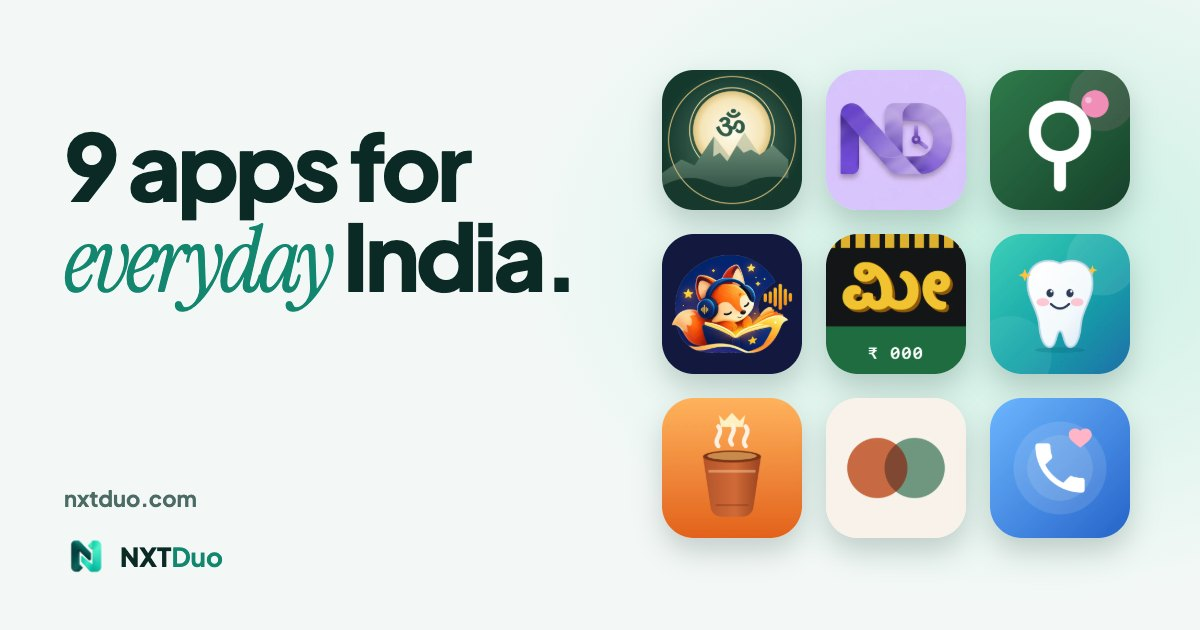
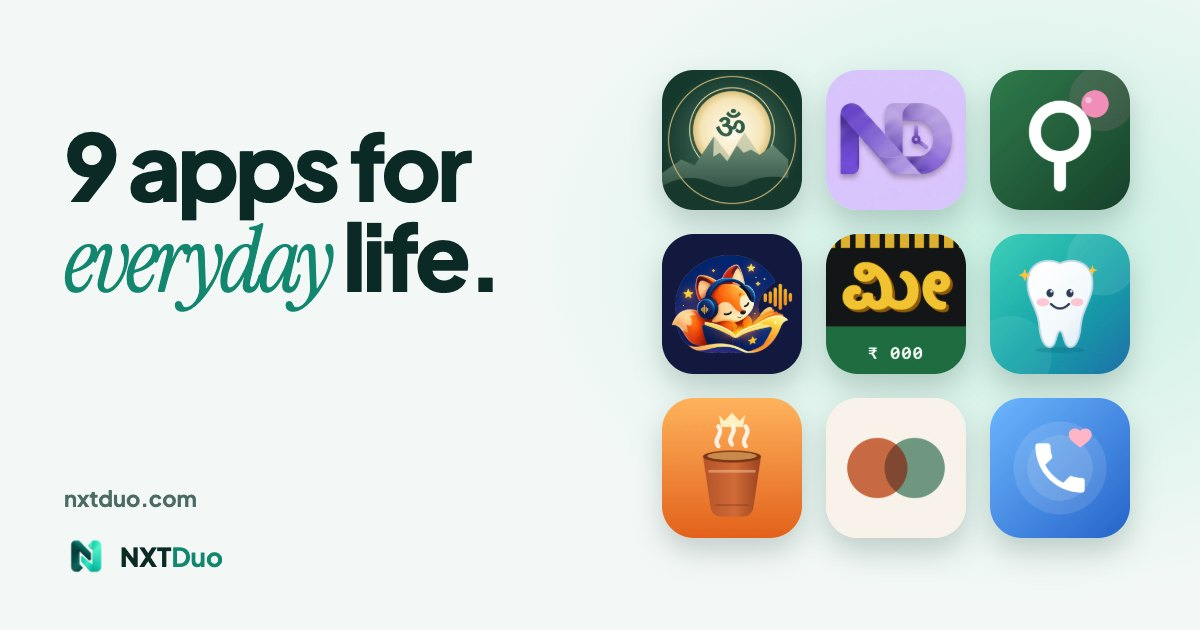
Speak to families worldwide and give the N mark a raised tile

Changed region(s): [[0.2775, 0.3317, 0.4933, 0.4825]]

diff --git a/index.html b/index.html
@@ -3,8 +3,8 @@
 <head>
   <meta charset="utf-8" />
   <meta name="viewport" content="width=device-width, initial-scale=1" />
-  <title>NxtDuo | Apps for everyday India, from a studio of two</title>
-  <meta name="description" content="NxtDuo is a two-person app studio from India. Our apps: Talk With Swamy, NxtDue, Publik, FableFox, Meter Mele, NxtBrush, Chai Empire, Saathi, Thodu." />
+  <title>NxtDuo | Apps for families everywhere, from a studio of two</title>
+  <meta name="description" content="NxtDuo is a two-person app studio making apps for families around the world. Our apps: Talk With Swamy, NxtDue, Publik, FableFox, Meter Mele, NxtBrush, Chai Empire, Saathi, Thodu." />
   <meta name="robots" content="index,follow" />
   <meta name="theme-color" content="#f3f8f6" />
   <link rel="canonical" href="https://nxtduo.com/" />
@@ -14,16 +14,16 @@
   <meta property="og:type" content="website" />
   <meta property="og:site_name" content="NxtDuo" />
   <meta property="og:locale" content="en_IN" />
-  <meta property="og:title" content="NxtDuo | Apps for everyday India, from a studio of two" />
-  <meta property="og:description" content="NxtDuo is a two-person app studio from India. Our apps: Talk With Swamy, NxtDue, Publik, FableFox, Meter Mele, NxtBrush, Chai Empire, Saathi, Thodu." />
+  <meta property="og:title" content="NxtDuo | Apps for families everywhere, from a studio of two" />
+  <meta property="og:description" content="NxtDuo is a two-person app studio making apps for families around the world. Our apps: Talk With Swamy, NxtDue, Publik, FableFox, Meter Mele, NxtBrush, Chai Empire, Saathi, Thodu." />
   <meta property="og:url" content="https://nxtduo.com/" />
   <meta property="og:image" content="https://nxtduo.com/assets/og/home.jpg" />
   <meta property="og:image:width" content="1200" />
   <meta property="og:image:height" content="630" />
   <meta property="og:image:alt" content="NxtDuo apps" />
   <meta name="twitter:card" content="summary_large_image" />
-  <meta name="twitter:title" content="NxtDuo | Apps for everyday India, from a studio of two" />
-  <meta name="twitter:description" content="NxtDuo is a two-person app studio from India. Our apps: Talk With Swamy, NxtDue, Publik, FableFox, Meter Mele, NxtBrush, Chai Empire, Saathi, Thodu." />
+  <meta name="twitter:title" content="NxtDuo | Apps for families everywhere, from a studio of two" />
+  <meta name="twitter:description" content="NxtDuo is a two-person app studio making apps for families around the world. Our apps: Talk With Swamy, NxtDue, Publik, FableFox, Meter Mele, NxtBrush, Chai Empire, Saathi, Thodu." />
   <meta name="twitter:image" content="https://nxtduo.com/assets/og/home.jpg" />
   <link rel="preload" href="/fonts/plus-jakarta-sans-latin-var.woff2" as="font" type="font/woff2" crossorigin />
   <link rel="stylesheet" href="/style.css" />
@@ -38,7 +38,7 @@
    "url": "https://nxtduo.com/",
    "logo": "https://nxtduo.com/assets/nxtduo-icon-512.png",
    "email": "support@nxtduo.com",
-   "description": "A two-person app studio from India.",
+   "description": "A two-person app studio making apps for families around the world.",
    "founder": [
     {
      "@type": "Person",
@@ -49,17 +49,14 @@
      "name": "Mahesh Chandu"
     }
    ],
-   "areaServed": {
-    "@type": "Country",
-    "name": "India"
-   }
+   "areaServed": "Worldwide"
   },
   {
    "@type": "WebSite",
    "@id": "https://nxtduo.com/#website",
    "name": "NxtDuo",
    "url": "https://nxtduo.com/",
-   "inLanguage": "en-IN",
+   "inLanguage": "en",
    "publisher": {
     "@id": "https://nxtduo.com/#organization"
    }
@@ -189,8 +186,8 @@
       <section class="panel p-hero" id="home" aria-labelledby="hero-title">
         <div class="hero-grid">
           <div class="hero-copy">
-            <p class="eyebrow">NxtDuo · an app studio of two · India</p>
-            <h1 class="display" id="hero-title">9 apps for <span class="serif">everyday</span> India.</h1>
+            <p class="eyebrow">NxtDuo · an app studio of two · for the world</p>
+            <h1 class="display" id="hero-title">9 apps for <span class="serif">everyday</span> life.</h1>
             <p class="lead">Spiritual chat, renewal reminders, a city guide, bedtime stories, games, a brushing coach and a private diary. Small, careful apps, made by two people who use them every day.</p>
             <div class="cta">
               <a class="btn primary" href="#talk-with-swamy" data-goto>Start with Talk With Swamy <i aria-hidden="true">→</i></a>
@@ -203,7 +200,7 @@
             <div class="phone">
               <div class="screen">
                 <div class="status" aria-hidden="true"><span>9:41</span><span class="island"></span><span class="status-icons">●●● ▮</span></div>
-                <div class="screen-date" aria-hidden="true"><b>Made in India</b><span>Our apps</span></div>
+                <div class="screen-date" aria-hidden="true"><b>Made for families</b><span>Our apps</span></div>
                 <ul class="apps-grid" aria-label="Our apps">
                   <li><a href="#talk-with-swamy" data-goto><img src="/assets/apps/talk-with-swamy-144.webp" alt="" width="66" height="66" decoding="async" /><span>Talk With Swamy</span></a></li>
                   <li><a href="#nxtdue" data-goto><img src="/assets/apps/nxtdue-144.webp" alt="" width="66" height="66" decoding="async" /><span>NxtDue</span></a></li>
@@ -471,12 +468,12 @@
           <div>
             <p class="eyebrow reveal">The studio</p>
             <h2 class="display reveal" id="studio-title">Two people. One <span class="serif">studio.</span></h2>
-            <p class="lead reveal">NxtDuo is a small, independent studio from India. We build things we want for our own family first: a reminder app because we kept missing renewals, bedtime stories for when we are away, a brushing coach for the kids.</p>
+            <p class="lead reveal">NxtDuo is a small, independent studio making apps for families everywhere. We build things we want for our own family first: a reminder app because we kept missing renewals, bedtime stories for when we are away, a brushing coach for the kids.</p>
             <p class="quote reveal">With great power comes great responsibility.</p>
           </div>
           <ul class="values">
             <li class="reveal"><i>01</i><div><b>Kind by default.</b><span>No dark patterns, no guilt trips, no selling your data.</span></div></li>
-            <li class="reveal"><i>02</i><div><b>Made for India.</b><span>Local languages, local streets, local life.</span></div></li>
+            <li class="reveal"><i>02</i><div><b>Made for the world.</b><span>Your language, your city, your everyday life, wherever you are.</span></div></li>
             <li class="reveal"><i>03</i><div><b>Honest about status.</b><span>Live means live. Concepts are called concepts.</span></div></li>
             <li class="reveal"><i>04</i><div><b>Small and careful.</b><span>Fewer features, done properly.</span></div></li>
           </ul>
@@ -504,7 +501,7 @@
             <li><img src="/assets/apps/thodu-144.webp" alt="" width="22" height="22" loading="lazy" /><span><a href="/thodu/">Thodu</a> <small><a href="/thodu/privacy/">Privacy</a></small></span></li>
           </ul>
           <div class="foot-row">
-            <span>© <span id="year">2026</span> NxtDuo · Made with ☕ in India</span>
+            <span>© <span id="year">2026</span> NxtDuo · Made with ☕ for families everywhere</span>
             <a href="mailto:support@nxtduo.com">support@nxtduo.com</a>
           </div>
         </footer>

diff --git a/style.css b/style.css
@@ -43,7 +43,7 @@
   --serif: "Instrument Serif", Georgia, serif;
   --ease: cubic-bezier(0.22, 1, 0.36, 1);
 
-  --nav-h: 72px;
+  --nav-h: 84px;
   --dock-h: 84px;
   --gutter: clamp(16px, 4vw, 56px);
 }
@@ -99,8 +99,15 @@ button { font: inherit; color: inherit; background: none; border: 0; padding: 0;
   background: linear-gradient(var(--bg) 30%, color-mix(in srgb, var(--bg) 0%, transparent));
 }
 html.h .nav { background: none; }
-.brand { display: flex; align-items: center; gap: 10px; font-weight: 800; font-size: 20px; letter-spacing: .01em; }
-.brand img { width: 36px; height: 36px; filter: drop-shadow(0 6px 14px rgba(15, 76, 69, .22)); }
+.brand { display: flex; align-items: center; gap: 12px; font-weight: 800; font-size: 26px; letter-spacing: .01em; }
+/* The N is two teals on a transparent background, so it sits on a raised white tile to stand out */
+.brand img, .dock .dock-home img, .contact-icon {
+  background: radial-gradient(circle at 30% 22%, #fff 0%, #fff 38%, #dff5ed 100%);
+  border: 1px solid rgba(255, 255, 255, .9);
+  box-shadow: 0 1px 0 #fff inset, 0 -3px 6px rgba(15, 76, 69, .08) inset, 0 10px 22px rgba(15, 76, 69, .22), 0 2px 5px rgba(15, 76, 69, .14);
+}
+.brand img { width: 52px; height: 52px; padding: 7px; border-radius: 16px; transition: transform .35s var(--ease); }
+.brand:hover img { transform: translateY(-2px) rotate(-4deg); }
 .brand b { color: var(--mint-text); font-weight: 600; }
 .nav-right { display: flex; align-items: center; gap: 18px; }
 .counter { font-variant-numeric: tabular-nums; font-size: 13px; letter-spacing: .12em; color: var(--muted); white-space: nowrap; }
@@ -127,7 +134,7 @@ html.h .nav { background: none; }
 .dock-sep { flex: none; width: 1px; height: 32px; background: var(--line); margin: 0 4px; }
 .dock a { position: relative; flex: none; display: grid; place-items: center; width: 48px; height: 48px; border-radius: 14px; transition: transform .35s var(--ease); }
 .dock img { width: 44px; height: 44px; border-radius: 11px; box-shadow: 0 4px 10px rgba(11, 42, 38, .16); }
-.dock .dock-home img { box-shadow: none; border-radius: 0; filter: drop-shadow(0 4px 8px rgba(15, 76, 69, .2)); }
+.dock .dock-home img { padding: 5px; border-radius: 12px; }
 .dock .dock-mail { display: grid; place-items: center; width: 44px; height: 44px; border-radius: 11px; background: var(--deep); color: #fff; }
 .dock a::after { /* active indicator */
   content: ""; position: absolute; bottom: -6px; left: 50%; width: 5px; height: 5px; border-radius: 50%;
@@ -292,7 +299,7 @@ html.h .phone { width: auto; height: min(640px, calc(100svh - var(--nav-h) - var
 /* ---- Contact + footer -------------------------------------------------------- */
 .p-contact { background: radial-gradient(60% 60% at 50% 35%, #d4f3e8, rgba(212, 243, 232, 0) 70%), var(--bg); text-align: center; }
 .contact-inner { display: grid; justify-items: center; gap: 14px; }
-.contact-icon { width: clamp(84px, 9vw, 130px); filter: drop-shadow(0 24px 40px rgba(15, 76, 69, .28)); }
+.contact-icon { width: clamp(96px, 10vw, 150px); padding: clamp(12px, 1.3vw, 20px); border-radius: 28%; }
 .contact-inner .display { font-size: clamp(48px, 6vw, 96px); }
 .contact-inner .display .serif { color: var(--mint-text); }
 .contact-inner p { margin: 0; color: var(--muted); }
@@ -328,9 +335,9 @@ html.h .p-contact .foot { margin-top: 28px; }
    Narrow screens: a normal vertical page
    -------------------------------------------------------------------------- */
 @media (max-width: 900px) {
-  :root { --nav-h: 64px; }
-  .brand { font-size: 18px; }
-  .brand img { width: 32px; height: 32px; }
+  :root { --nav-h: 72px; }
+  .brand { font-size: 22px; gap: 10px; }
+  .brand img { width: 44px; height: 44px; padding: 6px; border-radius: 13px; }
   .counter { display: none; }
   .hero-grid, .app-grid, .about-grid { grid-template-columns: 1fr; }
   .panel { padding-top: calc(var(--nav-h) + 20px); padding-bottom: 56px; }

diff --git a/apps.css b/apps.css
@@ -60,8 +60,13 @@ a { color: var(--accent-ink); }
 /* Header */
 .top { position: sticky; top: 0; z-index: 5; background: color-mix(in srgb, var(--bg) 82%, transparent); backdrop-filter: blur(14px); -webkit-backdrop-filter: blur(14px); border-bottom: 1px solid var(--line); }
 .top .wrap { display: flex; align-items: center; justify-content: space-between; gap: 12px; min-height: 64px; }
-.brand { display: inline-flex; align-items: center; gap: 10px; color: var(--ink); text-decoration: none; font-weight: 800; font-size: 18px; }
-.brand img { width: 32px; height: 32px; }
+.brand { display: inline-flex; align-items: center; gap: 10px; color: var(--ink); text-decoration: none; font-weight: 800; font-size: 22px; }
+.brand img {
+  width: 44px; height: 44px; padding: 6px; border-radius: 13px;
+  background: radial-gradient(circle at 30% 22%, #fff 0%, #fff 38%, #dff5ed 100%);
+  border: 1px solid rgba(255, 255, 255, .9);
+  box-shadow: 0 1px 0 #fff inset, 0 -3px 6px rgba(15, 76, 69, .08) inset, 0 8px 18px rgba(15, 76, 69, .2), 0 2px 4px rgba(15, 76, 69, .12);
+}
 .brand b { color: var(--mint-text); font-weight: 600; }
 .top nav { display: flex; align-items: center; gap: 6px; }
 .top nav a { padding: 8px 12px; border-radius: 999px; font-size: 14px; font-weight: 700; color: var(--muted); text-decoration: none; }

diff --git a/talk-with-swamy/index.html b/talk-with-swamy/index.html
@@ -184,7 +184,7 @@
 
   <footer class="foot">
     <div class="wrap">
-      <span>&copy; 2026 NxtDuo &middot; A two-person app studio, made in India</span>
+      <span>&copy; 2026 NxtDuo &middot; A two-person app studio, making apps for the world</span>
       <span><a href="/talk-with-swamy/privacy/">Talk With Swamy privacy policy</a> &middot; <a href="mailto:support@nxtduo.com">support@nxtduo.com</a> &middot; <a href="/">All apps</a></span>
     </div>
   </footer>

diff --git a/talk-with-swamy/privacy/index.html b/talk-with-swamy/privacy/index.html
@@ -214,7 +214,7 @@
 
   <footer class="foot">
     <div class="wrap">
-      <span>&copy; 2026 NxtDuo &middot; A two-person app studio, made in India</span>
+      <span>&copy; 2026 NxtDuo &middot; A two-person app studio, making apps for the world</span>
       <span><a href="/talk-with-swamy/privacy/">Talk With Swamy privacy policy</a> &middot; <a href="mailto:support@nxtduo.com">support@nxtduo.com</a> &middot; <a href="/">All apps</a></span>
     </div>
   </footer>

diff --git a/chai-empire/index.html b/chai-empire/index.html
@@ -178,7 +178,7 @@
 
   <footer class="foot">
     <div class="wrap">
-      <span>&copy; 2026 NxtDuo &middot; A two-person app studio, made in India</span>
+      <span>&copy; 2026 NxtDuo &middot; A two-person app studio, making apps for the world</span>
       <span><a href="/chai-empire/privacy/">Chai Empire privacy policy</a> &middot; <a href="mailto:support@nxtduo.com">support@nxtduo.com</a> &middot; <a href="/">All apps</a></span>
     </div>
   </footer>

diff --git a/chai-empire/privacy/index.html b/chai-empire/privacy/index.html
@@ -139,7 +139,7 @@
 
   <footer class="foot">
     <div class="wrap">
-      <span>&copy; 2026 NxtDuo &middot; A two-person app studio, made in India</span>
+      <span>&copy; 2026 NxtDuo &middot; A two-person app studio, making apps for the world</span>
       <span><a href="/chai-empire/privacy/">Chai Empire privacy policy</a> &middot; <a href="mailto:support@nxtduo.com">support@nxtduo.com</a> &middot; <a href="/">All apps</a></span>
     </div>
   </footer>

diff --git a/meter-mele/index.html b/meter-mele/index.html
@@ -188,7 +188,7 @@
 
   <footer class="foot">
     <div class="wrap">
-      <span>&copy; 2026 NxtDuo &middot; A two-person app studio, made in India</span>
+      <span>&copy; 2026 NxtDuo &middot; A two-person app studio, making apps for the world</span>
       <span><a href="/meter-mele/privacy/">Meter Mele privacy policy</a> &middot; <a href="mailto:support@nxtduo.com">support@nxtduo.com</a> &middot; <a href="/">All apps</a></span>
     </div>
   </footer>

diff --git a/meter-mele/privacy/index.html b/meter-mele/privacy/index.html
@@ -170,7 +170,7 @@
 
   <footer class="foot">
     <div class="wrap">
-      <span>&copy; 2026 NxtDuo &middot; A two-person app studio, made in India</span>
+      <span>&copy; 2026 NxtDuo &middot; A two-person app studio, making apps for the world</span>
       <span><a href="/meter-mele/privacy/">Meter Mele privacy policy</a> &middot; <a href="mailto:support@nxtduo.com">support@nxtduo.com</a> &middot; <a href="/">All apps</a></span>
     </div>
   </footer>

diff --git a/fablefox/index.html b/fablefox/index.html
@@ -186,7 +186,7 @@
 
   <footer class="foot">
     <div class="wrap">
-      <span>&copy; 2026 NxtDuo &middot; A two-person app studio, made in India</span>
+      <span>&copy; 2026 NxtDuo &middot; A two-person app studio, making apps for the world</span>
       <span><a href="/fablefox/privacy/">FableFox privacy policy</a> &middot; <a href="mailto:support@nxtduo.com">support@nxtduo.com</a> &middot; <a href="/">All apps</a></span>
     </div>
   </footer>

diff --git a/fablefox/privacy/index.html b/fablefox/privacy/index.html
@@ -187,7 +187,7 @@
 
   <footer class="foot">
     <div class="wrap">
-      <span>&copy; 2026 NxtDuo &middot; A two-person app studio, made in India</span>
+      <span>&copy; 2026 NxtDuo &middot; A two-person app studio, making apps for the world</span>
       <span><a href="/fablefox/privacy/">FableFox privacy policy</a> &middot; <a href="mailto:support@nxtduo.com">support@nxtduo.com</a> &middot; <a href="/">All apps</a></span>
     </div>
   </footer>

diff --git a/nxtbrush/index.html b/nxtbrush/index.html
@@ -188,7 +188,7 @@
 
   <footer class="foot">
     <div class="wrap">
-      <span>&copy; 2026 NxtDuo &middot; A two-person app studio, made in India</span>
+      <span>&copy; 2026 NxtDuo &middot; A two-person app studio, making apps for the world</span>
       <span><a href="/nxtbrush/privacy/">NxtBrush privacy policy</a> &middot; <a href="mailto:support@nxtduo.com">support@nxtduo.com</a> &middot; <a href="/">All apps</a></span>
     </div>
   </footer>
